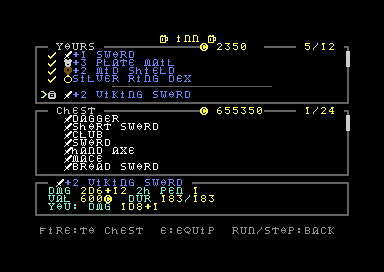
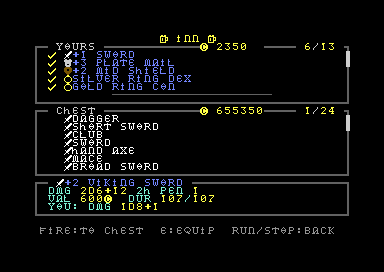
Due anelli indossati e anello comprato con la sua caratteristica
- Equipaggiamento a 5 posti (EQ_N): arma, armatura, scudo e due anelli
  (c_eq+3, c_eq+4). SAVE_VER $CA: blocco dell'eroe da 217 byte (file sempre di
  9 blocchi; i salvataggi di prima vengono scartati come le altre volte).
- Anello indossato (inventario e locanda): il primo posto libero; con due anelli
  sostituisce quello di valore minore (itval), che torna nello zaino con il
  messaggio "replaced ..." (inv_act). recalc_stats somma tutti e due.
- Alchimista: la caratteristica degli anelli in vendita si tira entrando, come nel
  bottino, e shop_buy la tiene (prima l'anello comprato aveva bonus 0 e non
  dava nulla).
- eq_get / eq_zero senza "and #3" (eq_y), liste con 5 indossati (inventario,
  locanda, baule del piano; alchimista con i due anelli), eroe di prova con due
  anelli (screenshot, ritaglio dell'HUD dell'help rifatto).
- Test: nuovi sanity RING-10..12 (secondo anello, sostituzione, anello comprato);
  i sanity di prima (BOSS1, REQ, NPCFIX) passano in regression. Wiki: oggetti,
  combattimento, formato dati, interfaccia, villaggio, elenco dei test.
Smoke + sanity e regression verdi (tranne PERF-24 e PERF-DISK-23, gia' noti e
decisi).

Changed region(s): [[0.0938, 0.2941, 0.6875, 0.3824], [0.7812, 0.1471, 0.8125, 0.1765], [0.5312, 0.7059, 0.5625, 0.7353]]

diff --git a/tests/sanity/rings/cases.py b/tests/sanity/rings/cases.py
@@ -1,0 +1,85 @@
+"""Two ring slots (21/11, TODO #391: equipment of 5 slots, c_eq[EQ_RING], c_eq[EQ_RING+1]) and the ring bought from the
+alchemist with its stat (before: bonus 0, no effect). One VICE session, the village; the inventory and the shop are the
+real screens (scrolling lists), keys written at the exit of read_input."""
+from lib.c64 import Game
+from c64test import test, check
+from lib.play import new_game, key, K_I, list_to, fire_to, find
+
+CHAIN = True
+R1 = 3                                          # EQ_RING: first ring slot (c_eq + 3), the second is c_eq + 4
+
+
+def setup(ctx):
+    g = ctx["g"] = Game()
+    g.to_menu()
+    new_game(g); g.frames(3)
+
+
+def teardown(ctx):
+    if "g" in ctx: ctx["g"].close()
+
+
+def ring(g, slot, item, stat):
+    g.poke(g.L["c_eq"] + slot, item); g.poke(g.L["c_eqb"] + slot, stat)
+
+
+def wear_from_pack(g, item, stat):
+    """the ring in pack slot 0, inventory, fire on it, close"""
+    L = g.L
+    g.fill(L["c_pack"], L["c_pack"] + 7, 0); g.poke(L["c_pack"], item); g.poke(L["c_packb"], stat)
+    key(g, K_I, 3)
+    check(not g.in_game(), "the inventory does not open")
+    check(list_to(g, 0, "ui_cur", 0), "cursor not on pack slot 0 (ui_cur %d)" % g.b(L["ui_cur"]))
+    g.press_fire(); g.frames(2)
+    scr = "".join(chr(b + 96) if 1 <= b <= 26 else chr(b) if 32 <= b < 64 else " " for b in g.mem(0xB400 + 23 * 40, 40))
+    g.run_stop(); g.frames(2)
+    return scr
+
+
+@test("RING-10", "inventory: with one ring on, a second ring goes to the free ring slot; both rings add their stat (recalc_stats)")
+def ring_second(ctx):
+    g = ctx["g"]; L = g.L
+    ring(g, R1, L["I_SILVER"], 1); ring(g, R1 + 1, 0, 0)
+    s0 = g.b(L["s_dex"])
+    wear_from_pack(g, L["I_COPPER"], 2)
+    eq = g.mem(L["c_eq"] + R1, 2)
+    check(eq == [L["I_SILVER"], L["I_COPPER"]], "ring slots %s (expected silver, copper)" % eq)
+    check(g.b(L["c_pack"]) == 0, "the copper ring is still in the pack")
+    check(g.b(L["s_dex"]) == s0 + 2 * g.b(L["itval"] + L["I_COPPER"]), "DEX %d (before %d): the second ring does not count" % (g.b(L["s_dex"]), s0))
+
+
+@test("RING-11", "inventory: with both rings on, a new ring replaces the one of lower value (it goes to the pack, message 'replaced')")
+def ring_replace(ctx):
+    g = ctx["g"]; L = g.L
+    ring(g, R1, L["I_SILVER"], 1); ring(g, R1 + 1, L["I_COPPER"], 2)
+    scr = wear_from_pack(g, L["I_GOLD"], 3)
+    eq = g.mem(L["c_eq"] + R1, 2)
+    low = R1 + 1 if g.b(L["itval"] + L["I_COPPER"]) <= g.b(L["itval"] + L["I_SILVER"]) else R1
+    want = [L["I_SILVER"], L["I_GOLD"]] if low == R1 + 1 else [L["I_GOLD"], L["I_COPPER"]]
+    check(eq == want, "ring slots %s (expected %s)" % (eq, want))
+    gone = L["I_COPPER"] if low == R1 + 1 else L["I_SILVER"]
+    check(gone in g.mem(L["c_pack"], 8), "the replaced ring is not in the pack %s" % g.mem(L["c_pack"], 8))
+    check("replaced" in scr, "no 'replaced' message (row 23: %r)" % scr.strip())
+
+
+@test("RING-12", "alchemist: a ring among the wares has its stat (1..3) and the bought ring keeps it")
+def ring_shop(ctx):
+    g = ctx["g"]; L = g.L
+    g.fill(L["c_pack"], L["c_pack"] + 7, 0); g.poke16(L["c_gold"], 9000)
+    door = find(g, L["T_DALCH"])
+    check(door, "no alchemist door on the map")
+    fire_to(g, door[0][0], door[0][1] + 1)
+    check(g.b(L["sh_mask"]) != 0, "the alchemist does not open")
+    g.poke(L["l8_id"], L["I_COPPER"]); g.poke(L["l8_b"], 2)          # ware 0: copper ring of DEX (as rolled entering)
+    ids, bs = g.mem(L["l8_id"], 8), g.mem(L["l8_b"], 8)
+    cat = g.mem(L["itcat"], L["N_ITEMS"])
+    bad = [(i, b) for i, b in zip(ids, bs) if i and cat[i] == L["CAT_RING"] and not 1 <= b <= 3]
+    check(not bad, "rings in the wares without a stat: %s" % bad)
+    check(list_to(g, 0, "ui_lc", 12), "cursor not on ware 0")
+    g.press_fire(); g.press_fire()                                     # buy, confirm
+    pk = g.mem(L["c_pack"], 8)
+    check(L["I_COPPER"] in pk, "the ring is not in the pack %s" % pk)
+    k = pk.index(L["I_COPPER"])
+    check(g.b(L["c_packb"] + k) == 2, "bought ring with stat %d (expected 2: DEX)" % g.b(L["c_packb"] + k))
+    g.run_stop(); g.frames(2)
+    check(g.in_game(), "RUN/STOP does not close the shop")

diff --git a/docs/wiki/test.md b/docs/wiki/test.md
@@ -150,19 +150,15 @@ Generato con `lab64 test all --md` (rifarlo quando si aggiunge un test).
 | `KRILL-01` | load_gfx 1 (Krill, LOAD_TO): the theme at GFX_DUN_AT (under the KERNAL, $EC6D since 15/11) equals out/work/gfx/gfx1.prg |
 | `KRILL-02` | snd_get (Krill): the song in its buffer equals out/work/snd/snd0.prg |
 
-### sanity (7)
+### sanity (3)
 
 | ID | Test |
 |---|---|
-| `QUEST-10` | village: the NPCs are placed (quest giver + at most one walker per sector, each inside its sector, on free tiles) |
-| `QUEST-11` | Q with no quest taken: the list (file QST0) says 'talk to the villagers', RUN/STOP goes back to the game |
-| `QUEST-12` | Hilde: '!' over her head, name in the bar; Fire = quest 1 taken and its detail (title, chapter, yellow status, text, reward); back: the list; the '!' is gone |
-| `QUEST-13` | the walkers move (slowly, the hero 4 tiles away), stay inside their sector, never stand on the hero's tile; with the hero next to them they stop |
-| `QUEST-14` | the visible NPCs get the free sprites 3..7 (never the hero's, never more than 5) |
-| `QUEST-15` | a walker with a quest ('quest giver' in the bar, '!'): Fire = quest taken, the walker gives it no more; long text scrolls with S; the list has 2 quests |
-| `QUEST-16` | attack cadence (s_rate): weapon + max(0, slow - per_dex x mod DEX): new hero (dagger, DEX 13) slower, DEX 18 = the weapon's |
+| `RING-10` | inventory: with one ring on, a second ring goes to the free ring slot; both rings add their stat (recalc_stats) |
+| `RING-11` | inventory: with both rings on, a new ring replaces the one of lower value (it goes to the pack, message 'replaced') |
+| `RING-12` | alchemist: a ring among the wares has its stat (1..3) and the bought ring keeps it |
 
-### regression (221)
+### regression (242)
 
 | ID | Test |
 |---|---|
@@ -182,10 +178,13 @@ Generato con `lab64 test all --md` (rifarlo quando si aggiunge un test).
 | `BOOT-13` | BARBARIAN menu: every choice (1 2 3) blanks the screen BEFORE loading; only its phrase (row 10, yellow) and 'please wait' (row 13), as the START wait screen (16/11) |
 | `BOOT-14` | BARBARIAN menu: item 4 'exit game' -> BASIC (READY.), keyboard and screen as at power-on (16/11) |
 | `BOOT-15` | START is silent (no SID player): the menu music stops when the game is chosen and restarts only in the lobby (16/11) |
-| `BOOT-17` | BARBARIAN menu: one loop per frame whatever the phase of the music IRQ (before 19/11 an IRQ over raster line 250 froze the menu, TODO I6) |
 | `BOOT-16` | HELP and LORE exits: wait page (phrase on row 10, 'please wait' on row 13, VIC bank 0, screen on) before the reload of BARBARIAN (16/11) |
 | `TITLEMUSIC-10` | HELP: Demon's Eye with its own IRQ clock (CIA1 timer A, 19656 cycles), IRQ/SID/CIA restored before the KERNAL LOAD |
 | `TITLEMUSIC-11` | BARBARIAN: Demon's Eye with its own IRQ clock (CIA1 timer A, 19656 cycles), IRQ/SID/CIA restored before the KERNAL LOAD |
+| `BOOT-17` | BARBARIAN menu: one loop per frame whatever the phase of the music IRQ (CIA1 timer locked to the frame; before 19/11 an IRQ over raster line 250 froze the menu for ever, TODO I6, LORE-10 hangs) |
+| `BOSS1-10` | level 5: over 30% of its life the Abbot does not rage; under 30% it rages (red border, attack recharge <= AB_RCD) |
+| `BOSS1-11` | raging Abbot: the censer warns (white blinking) and then the cloud takes hpmax/8 from the hero next to it (far away: not checked, the boss walks) |
+| `BOSSMAP-10` | boss levels 5, 10, 15: the map of data/maps/bosschapN.txt (after post_walls), the furniture of the chapter, stairs up to the boss walkable, no stairs down, its own palette (final.palette), the tiles of GFX(2c) from boss_gfx.py |
 | `BUILD-10` | variant: saved hero details (TESTUI=2) |
 | `BUILD-11` | variant: game menu (TESTUI=25) |
 | `BUILD-12` | variant: Fire on stairs (TESTFIRE) |
@@ -197,7 +196,6 @@ Generato con `lab64 test all --md` (rifarlo quando si aggiunge un test).
 | `CHAP-10` | chapters.yaml: local levels restart at 1, global depth = previous levels + local, the Abyss fills up to 255 |
 | `CHAP-11` | tools/simulators/chapters.py: every generated level of a chapter at its global depth with the chapter's bestiary, the chapter boss |
 | `CHAP-SEQ-10` | new hero in chapter 1 (c_chap = c_unl = 1); the village exit is closed: no label, the edge stops the hero |
-| `BOSSMAP-10` | boss levels 5, 10, 15: the map of data/maps/bosschapN.txt (after post_walls), the furniture of the chapter, stairs up to the boss walkable, no stairs down, its own palette (final.palette), the tiles of GFX(2c) from boss_gfx.py (19/11) |
 | `CHAP-SEQ-11` | level 5 = boss level of chapter 1: map BOSSCH1 (stairs up, no stairs down), boss drawn as the final boss |
 | `CHAP-SEQ-12` | killing the boss of chapter 1 unlocks chapter 2 (c_unl = 2) |
 | `CHAP-SEQ-13` | village exit open: label 'travel to next chapter'; fire: chapter 2, village TWN2 at the south entry, hero saved |
@@ -223,6 +221,7 @@ Generato con `lab64 test all --md` (rifarlo quando si aggiunge un test).
 | `CHEAT-20` | next level in the throne room (level 20): as the final boss killed (c_won, c_unl 5, respec gift), village 4 |
 | `CHEAT-21` | village 5 (last): next chapter and next level do nothing, message 'limit reached' |
 | `CHEAT-22` | GAME assembled with the release flags (tools/build/asm.sh release-game): no cheat code |
+| `DECOR-10` | levels 2, 7, 12, 17 (chapters 1-4), 3 seeds: solid and walkable furniture on every level; every walkable tile still reachable from the stairs; no monster on a solid tile; the same map when the level is entered again; chapter 4: the furniture is mirrored like the citadel (but where the mirrored tile is a stair or a chest) |
 | `DISK-10` | the disk has every file (loader, START, game, LORE, LDAT, TITLE, HELP, JUKEBOX, saves, ...) |
 | `DISK-12` | entry of the tests (11/11, Krill): the real START from the monitor (Krill installed), new game in the village |
 | `DUNG-CHEST-10` | key chest: without a key 'it is locked' (stays closed); with a key it opens, one key used |
@@ -233,14 +232,10 @@ Generato con `lab64 test all --md` (rifarlo quando si aggiunge un test).
 | `LOOT-12` | 10 scrolls on the hero: a scroll in a chest stays there (max 10); with 9 it is taken (stack of 10) |
 | `MAP-10` | minimap fog: nothing explored -> nothing far from the hero; all explored -> the level; half -> top half only |
 | `PORTAL-10` | portal on level 1, then a new portal on level 2: the old one on level 1 is gone, the village one leads to 2 |
+| `PORTAL-11` | portal out of level 2 and back: a wounded monster keeps HP and tile, a dropped chest is still there; stairs away and back: the monster is healed (STASH only for portal and death) |
 | `SKILL-10` | Frenzy (O): level 15 needed; 5 s; two attacks per Fire; run +100% = 4 px per frame; normal run after |
 | `SKILL-11` | Rage (U): level 9 needed; 6 s; damage taken halved (min 1), full damage without Rage |
 | `DEATH-10` | death on level 20 (throne room): village, half gold, deepest level 20 kept |
-| `DECOR-10` | levels 2, 7, 12, 17 (chapters 1-4), 3 seeds: solid and walkable furniture; every walkable tile reachable from the stairs; no monster on a solid tile; same map entering again; chapter 4 mirrored; screenshots in out/work/decor/ |
-| `OVP-10` | level 20: the code of the throne room is copied from the tail of GFX8 to $C900; a wave of the final boss from that code; level 19: the decor code of chapter 4 (jump table); village: MENU again at $C900 (19/11) |
-| `OVP-11` | level 5, The Hollow Abbot (code in the tail of GFX2): under 2/3 a stop and 2 Skeletons; regeneration while they live |
-| `OVP-12` | level 10, Mother Stitch (GFX4): rite when awake, 2 still fetishes (type 8, life = her max / 16), protected (hits /2, regeneration), open after the last one (hits x2), second rite under 2/3, no loot from a fetish (ovp_kill); screenshot out/work/ovp/stitch_fetishes.png |
-| `OVP-13` | level 15, Varok the Oathbreaker (GFX6): warning and charge along the row; the shield halves the hits, not when stunned |
 | `THRONE-10` | throne room: north wall closed, boss killed -> wall open, epic chest without key, lever -> portal |
 | `EMU-10` | vc64web: real boot from the disk (LOAD, POKE 1020,1, RUN): START with Krill, GAME and LOBBY loaded, menu shown |
 | `EMU-11` | vc64web: new barbarian from the menu (joystick + keyboard), saved to disk by the Krill plugin, village reached |
@@ -251,7 +246,7 @@ Generato con `lab64 test all --md` (rifarlo quando si aggiunge un test).
 | `EMU-16` | vc64web: reset and boot again from the same disk copy: the hero saved at creation is in the LOBBY list |
 | `GEN-10` | reference maps, throne room from FMAP and from the cache |
 | `GEN-11` | caves of chapter 3 (levels 11-14, 6 seeds): connected, border of wall, enough floor, generation under 1.2 s, palettes 9/11/10 |
-| `GEN-12` | swamp of chapter 2 (levels 6-9, 8 seeds): entry and exit gates on two sides of the border, the exit of a level facing the entry of the next one (random path, at least 3 sides used), all reachable, generation under 1.2 s, palette 12 |
+| `GEN-12` | swamp of chapter 2 (levels 6-9, 8 seeds + 2 anagram seeds with different gates): entry and exit gates on two sides of the border, the exit of a level facing the entry of the next one (random path, at least 3 sides used), gates of a level at least 34 tiles apart, all reachable, generation under 1.2 s, palette 12 |
 | `GEN-13` | citadel of chapter 4 (levels 16-19, 6 seeds): connected, symmetric left/right (but the stairs), columns, big halls, generation under 1.0 s; no monster born in a wall or in the water on levels 1-19 |
 | `INN-GOLD-10` | inn chest: deposit in tens (remainder kept, chest full, purse full) |
 | `GOLD-CAP-10` | gold picked up: GOLD_MAX cap on the hero (add_gold16) |
@@ -269,9 +264,10 @@ Generato con `lab64 test all --md` (rifarlo quando si aggiunge un test).
 | `ITEMDB-10` | items.tsv: valid table, consumable = potion/scroll, equipment = weapon/armor/shield/ring, weapons 1 or 2 hands |
 | `ITEMDB-11` | the checker refuses a wrong table: shield with hands, duplicate id, missing price, unknown type |
 | `ITEMDB-12` | game data = table: item ids in table order, category, price and the two-handed flag (itfl bit 0) |
-| `ITEMDB-NEXT-10` | next item database (data/items/next, proposal of 20/11): full names <= 37, unique names <= 16, affix values fit a byte, ids fit the record |
 | `INN-2H-10` | inn: shield with a two-handed weapon on: refused (the shield stays in the pack) |
 | `INN-2H-11` | inn: two-handed weapon with a shield on: equipped, the shield and the old weapon go to the pack |
+| `ITEMDB-NEXT-10` | next item database (data/items/next, proposal of 20/11): full names <= 37, unique names <= 16, affix values fit a byte, ids fit the record |
+| `REQ-10` | inventory: a weapon whose STR requirement is above s_str stays in the pack ('str N' in its box); with enough STR it is equipped |
 | `ITEM-10` | 255 generated items, broken weapon, HUD warnings, TOD clock (repair: SHOP-FIX-10) |
 | `BELT-10` | belt (4 potions, the fifth refused), scroll stack, portal |
 | `KRILL-10` | START installs Krill: resident code at $0200 as out/work/krill/loader.prg (but its variables), LDFLAGS used |
@@ -305,12 +301,18 @@ Generato con `lab64 test all --md` (rifarlo quando si aggiunge un test).
 | `MON-CHAP-20` | back to chapter 1 after chapter 4: the chapter 1 set (fallen ... balrog, lord of ruin) is restored |
 | `MUSIC-10` | songs per level, buffer = SNDn files, combat and resume, copy under I/O |
 | `MUSIC-11` | .sid files: one per song, PSID header, init + 50 frames of play write gate and frequency of the SID voices |
+| `NPCFIX-10` | village 1: the fixed NPCs are on their tiles (header tk_fix), with their design, still, no quest; nobody else in their sectors |
+| `NPCFIX-11` | next to each fixed NPC the bar shows its name; Fire next to one without a quest opens nothing |
 | `OPT-11` | bar_far (sabs): monster off screen at |dx| >= 176 or |dy| >= 112, both signs |
 | `OPT-12` | neg16 / sabs: -tmp0:1 and |tmp0:1| saturated at 255 |
 | `OPT-02` | gold_total: c_gold + 10 x c_sgold (24 bit) at the limits |
 | `OPT-05` | pot_heal: itval + itdn x level for the three potions at levels 1 and 20, Abyss values (pab_*) at level 99 |
 | `OPT-03` | set_name4 / set_name: every name of nm_tab in cmdbuf+3.., nlen = length, io_dir = 1, A = 1, X kept |
 | `OPT-12B` | put_hero: the hero on tile (A, X) -> px/py = tile x 16 + 8 (centre) |
+| `OVP-10` | level 20: the code of the throne room is copied from the tail of GFX8 to $C900 (ovp_ok = 1); the boss below 3/4 of its life calls a wave of SUM_WAVE monsters; level 19: the decor code of chapter 4 (with the citadel); village: the MENU module is read again at $C900 |
+| `OVP-11` | level 5, The Hollow Abbot (code in the tail of GFX2): under 2/3 of its life it stops 1 s (green) and raises 2 Skeletons next to itself; while one of them lives it regenerates (1 hp every 25 frames) |
+| `OVP-12` | level 10, Mother Stitch (GFX4): awake, a rite (1 s still) plants 2 fetishes (type 8, still, life = her max / 16); while one stands the hero's hits are halved and she regenerates; the last one down leaves her open (hits x2); under 2/3 a second rite; a fetish killed gives no loot |
+| `OVP-13` | level 15, Varok the Oathbreaker (GFX6): aligned with the hero he stops (warning) and charges along the row; his shield halves the hero's hits, not when stunned |
 | `PERF-10` | village: walking in 8 directions, lost frames <= 2%, worst frame <= 2 |
 | `PERF-11` | inventory open within 0.3 s, minimap within 0.5 s; back in the game within 0.3 s |
 | `PERF-19` | village screens with the module MENU in memory (loaded at the village entry, 11/11): smith, inn, inn again <= 0.5 s, back <= 0.5 s |
@@ -325,7 +327,7 @@ Generato con `lab64 test all --md` (rifarlo quando si aggiunge un test).
 | `PERF-21` | every dungeon level 1..19 (change_level): walking, lost <= 20%, worst <= 3 |
 | `PERF-22` | Abyss levels 21..255: walking (when the Abyss exists) |
 | `PERF-23` | level generator on EVERY level 1..19 and on every Abyss level 21..255: <= 1.5 s each, up stairs present |
-| `PERF-24` | every village 1..5: walking from next to each wandering NPC, lost <= 1.5%, worst <= 2.1 (19/11: before 3-4%) |
+| `PERF-24` | every village 1..5: walking from next to each wandering NPC (they walk too), lost <= 1.5%, worst <= 2.1 (19/11: before 3-4% near the NPCs) |
 | `PERF-DISK-10` | START from the monitor to the barbarian menu (Krill install, GAME, LOBBY, hl) <= its limit |
 | `PERF-DISK-11` | loads with Krill (MENU, village, theme, song, hero list, hero file) <= their limits |
 | `PERF-DISK-13` | stairs inside a chapter (change_level 1 -> 2: theme, generation, level state from RAM) <= its limit |
@@ -348,6 +350,13 @@ Generato con `lab64 test all --md` (rifarlo quando si aggiunge un test).
 | `BELT-13` | save from the game menu, belt wiped in RAM, hero loaded from disk: same belt |
 | `BELT-14` | death keeps the belt (no potion lost) |
 | `POT-10` | pot_heal: dungeon column up to level 20, Abyss column (heal_abyss) from level 21, all potions, Y kept |
+| `QUEST-10` | village: the NPCs are placed (quest giver + at most one walker per sector, each inside its sector, on free tiles) |
+| `QUEST-11` | Q with no quest taken: the list (file QST0) says 'talk to the villagers', RUN/STOP goes back to the game |
+| `QUEST-12` | Hilde: '!' over her head, name in the bar; Fire = quest 1 taken and its detail (title, chapter, yellow status, text, reward); back: the list; the '!' is gone |
+| `QUEST-13` | the walkers move (slowly, the hero 4 tiles away), stay inside their sector, never stand on the hero's tile; with the hero next to them they stop |
+| `QUEST-14` | the visible NPCs get the free sprites 3..7 (never the hero's, never more than 5) |
+| `QUEST-15` | a walker with a quest ('quest giver' in the bar, '!'): Fire = quest taken, the walker gives it no more; long text scrolls with S; the list has 2 quests |
+| `QUEST-16` | attack cadence (s_rate): weapon + max(0, slow - per_dex x mod DEX): new hero (dagger, DEX 13) slower, DEX 18 = the weapon's |
 | `SAVE-10` | new disk: menu without error, no heroes |
 | `SAVE-11` | hl (hero list) missing: menu without error, the game starts |
 | `SAVE-12` | hero list zeroed / random / never written: no error, no heroes |
@@ -383,7 +392,7 @@ Generato con `lab64 test all --md` (rifarlo quando si aggiunge un test).
 | `INN-GOLD-11` | inn: entering with less than a ten of gold nothing moves; with the chest near full only what fits (21/11) |
 | `MENU-10` | out/work/menu.prg (one file since 18/11): header (parts, source and destination), parts ZX0(zone k), ends at MR2_END, above ML_LO; shops out of GAME; the disks have MENU, no MENU1/OVLT/OVL2 |
 | `MENU-11` | ovl_town from the disk (as at the village entry): every zone equal to the module, ovl_cur = 1, $01 = $35 (KERNAL always out since 21/11), < 11 s |
-| `MENU-13` | smith, alchemist and inn open from the module in RAM: no read of the file MENU, KERNAL and IRQ back after RUN/STOP |
+| `MENU-13` | smith, alchemist and inn open from the module in RAM: no read of the file MENU, $01 = $35 and IRQ back after RUN/STOP |
 | `VIL-TWN-11` | village 1 (Aldric's Hollow): header in town_k, solid tiles, colours, map, hero at the entry |
 | `VIL-TWN-12` | village 2 (Bad Water): header in town_k, solid tiles, colours, map, hero at the entry |
 | `VIL-TWN-13` | village 3 (The Last Camp): header in town_k, solid tiles, colours, map, hero at the entry |
@@ -393,8 +402,8 @@ Generato con `lab64 test all --md` (rifarlo quando si aggiunge un test).
 | `VIL-TWN-21` | village 5 (City of the Abyss, prototype): the Maw does not lead anywhere yet |
 | `VIL-BOSS-10` | boss levels of chapters 1-3: the boss is drawn with its own sprite colour (set of the chapter), in the slot of the final boss |
 | `VIL-TWN-22` | villages 2-5: fire one tile below the doors opens smith, alchemist and inn; RUN/STOP closes them |
-| `VIL-FERRY-10` | village 2 (Bad Water): stepping on one ferry brings the hero onto the other one and he stays there; off and on again: back; the ferry tile is walkable for the hero, never for the NPCs; village 1 has no ferry |
 | `VIL-TWN-23` | village 4 with chapter 5 unlocked (final boss killed): the exit in the crater leads to the City of the Abyss, hero saved at its entry |
+| `VIL-FERRY-10` | village 2 (Bad Water): stepping on one ferry (tile F) brings the hero onto the other one and he stays there; stepping off and on again brings him back; the ferry tile is walkable for the hero, never for the NPCs; village 1 has no ferry |
 
 ## Bug trovati dalla ristrutturazione
 

diff --git a/docs/wiki/interfaccia.md b/docs/wiki/interfaccia.md
@@ -129,7 +129,7 @@ Tutte spengono lo split raster (`ui_begin`), usano il font della UI (`$B800`) e 
 
 | Schermata | Routine | Contenuto |
 |---|---|---|
-| Inventario | `ui_inventory` → `iv_main` (segmento CORE, `src/game/inv.asm`) | 21/11 (branch `liste-menu`, prototipi approvati dal committente): titolo "backpack" (riga 0). **Statistiche** (righe 1-5, titolo = nome del PG): lvl/xp/oro/chiavi, hp/att/ac/dmg, str/dex/con. **Lista "items"** a scorrimento (righe 7-16, `slist.asm`): una voce per riga, prima l'equipaggiamento (arma, armatura, scudo, anello; segno ✓ giallo `CH_EQ`), poi la cintura (4 posti, segno `CH_BELT`), poi lo zaino (8 posti, segno `CH_PACK`), separati da una riga sottile (`CH_SEP`); posto libero = "-"; barra di scorrimento sul bordo destro (`CH_THUMB`) e posizione " n/N " nel titolo. **Oggetto selezionato** (righe 18-22): icona e nome nel titolo, poi proprietà (`it_prim`, `it_sec`: requisito di FOR "str N" se non raggiunto), valore e durabilità, provenienza ("equipped", "in belt") o, per lo zaino, il confronto "you: ..." con l'oggetto indossato della stessa categoria. Fire usa o indossa (la cintura si guarda soltanto: posizione delle pozioni in futuro), DEL getta, I o RUN/STOP chiudono |
+| Inventario | `ui_inventory` → `iv_main` (segmento CORE, `src/game/inv.asm`) | 21/11 (branch `liste-menu`, prototipi approvati dal committente): titolo "backpack" (riga 0). **Statistiche** (righe 1-5, titolo = nome del PG): lvl/xp/oro/chiavi, hp/att/ac/dmg, str/dex/con. **Lista "items"** a scorrimento (righe 7-16, `slist.asm`): una voce per riga, prima l'equipaggiamento (arma, armatura, scudo, due anelli; segno ✓ giallo `CH_EQ`), poi la cintura (4 posti, segno `CH_BELT`), poi lo zaino (8 posti, segno `CH_PACK`), separati da una riga sottile (`CH_SEP`); posto libero = "-"; barra di scorrimento sul bordo destro (`CH_THUMB`) e posizione " n/N " nel titolo. **Oggetto selezionato** (righe 18-22): icona e nome nel titolo, poi proprietà (`it_prim`, `it_sec`: requisito di FOR "str N" se non raggiunto), valore e durabilità, provenienza ("equipped", "in belt") o, per lo zaino, il confronto "you: ..." con l'oggetto indossato della stessa categoria. Fire usa o indossa (la cintura si guarda soltanto: posizione delle pozioni in futuro), DEL getta, I o RUN/STOP chiudono |
 | Oggetto selezionato | `iv_sel` (segmento CORE) | 21/11: in tutte le schermate di oggetti (inventario, negozi, locanda, baule del piano), righe 18-22: icona e nome nel titolo, caratteristiche principale e secondaria (`dmg 2d6+3`, `2h pen 1`, requisito "str N" se manca la FOR), valore e durabilità (negozi: solo la durabilità), riga 3 della schermata (`iv_l3`) |
 | Baule del piano | `ui_chest` | 21/11 (liste a scorrimento): titolo "o golden chest o" (moneta ai lati; chest / key chest / golden chest / epic chest); lista **contents** (righe 2-7, gli oggetti del baule; nel titolo l'oro trovato aprendolo), lista **yours** (righe 10-16, come l'inventario: indossati, cintura, zaino), riquadro dell'oggetto con il confronto "you: ...". Fire nella lista contents prende l'oggetto; nell'altra lista si guarda soltanto. Riga 23 i messaggi ("the belt is full.": la pozione resta nel baule; "pack is full.", "max 10 scrolls."); un baule vuoto sparisce. Chiuso: "it is locked. you need a key." |
 | Negozio | `enter_shop`, `sh_draw` (modulo MENU) | 21/11 (liste a scorrimento): liste **wares** (prezzo pieno a destra) e **gear** (fabbro) / **yours** (alchimista) con il prezzo di vendita e l'oro totale nel titolo, riquadro dell'oggetto con `buy` / `sell` / `repair`; fire = buy (merce), sell (zaino, cintura); R = repair (fabbro); l'indossato non si vende; pozione comprata: scelta del posto della cintura. Dettagli: [Villaggio](villaggio.md#negozi-enter_shop-sh_draw-modulo-menu-dall1111) |

diff --git a/docs/wiki/FORMATO_DATI.md b/docs/wiki/FORMATO_DATI.md
@@ -59,8 +59,8 @@ riscrive: [salvataggi.md](salvataggi.md)).
 
 | Offset | Byte | Contenuto |
 |---|---|---|
-| 0 | 210 (`HERO_LEN`) | blocco dell'eroe (`CHRBLK`, vedi sotto), con il baule della locanda |
-| 210 + (piano − 1) × 93 | 93 (`LV_SLOT`) | stato compatto del piano 1…20 (82 o 93 byte usati) |
+| 0 | 217 (`HERO_LEN`, dal formato $CA) | blocco dell'eroe (`CHRBLK`, vedi sotto), con il baule della locanda |
+| 217 + (piano − 1) × 93 | 93 (`LV_SLOT`) | stato compatto del piano 1…20 (82 o 93 byte usati) |
 
 **`HL`** (66 byte): versione (`save_version`), 5 byte "eroe presente", 5 nomi da 12 caratteri (scritto solo creando
 un eroe o cancellandolo; `START` e il menu leggono solo questo file).
@@ -72,7 +72,7 @@ formato e tempi in `docs/wiki/storico-todo.md` e nella storia di git.
 
 In memoria: blocco `CHRBLK` a `$9500` (`src/game/game.asm`); i primi `HERO_LEN` byte del file sono la copia esatta del blocco.
 Dal formato $BF: esperienza `c_xp` a 24 bit, vita `c_hp` a 16 bit, `c_vis` 3 byte (24 piani); il 4o posto
-dell'equipaggiamento (`c_eq+3`, `c_eqb+3`) è l'anello (bonus = caratteristica: 1 FOR, 2 DES, 3 COS).
+dell'equipaggiamento (`c_eq+3`, `c_eqb+3`; dal formato $CA anche il 5o) è l'anello (bonus = caratteristica: 1 FOR, 2 DES, 3 COS).
 Dal formato $C0: il baule della locanda non è più nel blocco (record a parte); ogni oggetto dello zaino e
 dell'equipaggiamento ha durabilità attuale e massima (`c_packd`/`c_eqd`, `c_packm`/`c_eqm`, contigui come
 `c_pack`/`c_eq`); `c_game` (3 byte: bit 0..8 numero della partita, bit 9..23 minuti giocati); `c_deaths`
@@ -103,7 +103,11 @@ La tabella campo per campo (offset, byte, significato) è generata a ogni build 
 su `CHRBLK`, commenti dei campi) nella mappa automatica: [`program-game.html`](../../out/work/memory-map/program-game.html#layout-CHRBLK),
 "Fields of CHRBLK"; lo stesso per `LVLBLK` (stato del piano in RAM). È sempre allineata al codice.
 
-## 3. Stato di un piano — `SAVE-0N`, offset 210 + (piano − 1) × 93 (formato compatto)
+Dal formato **$CA** (21/11, TODO #391): l'equipaggiamento ha **5 posti** (`EQ_N`): arma, armatura, scudo e **due anelli**
+(`c_eq+3` e `c_eq+4`, `EQ_RING`); `c_eq`, `c_eqb`, `c_eqd`, `c_eqm` crescono di un byte ciascuno: blocco da **217** byte
+(`HERO_LEN`; il file dell'eroe resta di 9 blocchi). I piani seguono dall'offset 217.
+
+## 3. Stato di un piano — `SAVE-0N`, offset `HERO_LEN` + (piano − 1) × 93 (formato compatto)
 
 In memoria: blocco `LVLBLK` a `$9800`. La **mappa non è salvata**, e nemmeno mostri e bauli
 del piano: entrando nel piano si rigenera tutto dal seed (`seed_level`), poi si applicano le differenze
@@ -300,7 +304,7 @@ Krill invece permette sprite, IRQ e badline durante i caricamenti.
 - **Personaggio** (`SAVE-0N`): solo con "save game" del menu RUN/STOP, una volta alla creazione dell'eroe e al
   **cambio di capitolo** (gruppi di 5 piani, 11/11 sera). "Quit game" **non** salva. Mai alla morte o alla vittoria,
   né uscendo dalla locanda o dalla scheda del personaggio.
-- **Stato del piano** (`SAVE-0N`, offset 210 + (piano − 1) × 93):
+- **Stato del piano** (`SAVE-0N`, offset `HERO_LEN` (217) + (piano − 1) × 93):
   - lasciandolo per le **scale**: copiato nel suo **slot in RAM** (`LVRAM`, 5 slot del capitolo, RAM sotto l'I/O);
     sul disco va con "save game" o al cambio di capitolo, insieme all'eroe;
   - lasciandolo per **portale o morte**: nel suo slot come per le scale, e in più boss, 5 mostri caldi e 10 bauli

diff --git a/docs/wiki/oggetti.md b/docs/wiki/oggetti.md
@@ -123,7 +123,7 @@ minuscole, cifre, spazio, `'`, `-`, `.` (`asm_str`). Il nome del PG è a parte: 
 
 ### I byte accanto all'id (`c_eqb`/`c_packb`, `c_eqd`/`c_packd`, `c_eqm`/`c_packm`)
 Ogni oggetto posseduto ha tre byte accanto all'id (le tabelle dello zaino proseguono in quelle
-dell'equipaggiamento: indice 16..19):
+dell'equipaggiamento: indice `PACK_N`..`PACK_N`+4 = 8..12):
 - **bonus**: armi, armature, scudi = **magia +N** (0..3), sommata ad ATT e danno (armi) o alla CA; anelli = la
   **caratteristica** (1 FOR, 2 DES, 3 COS, il nome mostra il suffisso `copper ring str`); pergamene = la
   **quantità** della pila (1..4, `SCR_MAX`); pozioni: non usato;
@@ -172,13 +172,18 @@ flowchart LR
     GI -->|pozione| BE["cintura c_beltt: 4 posti,<br/>una pozione per posto"]
     GI -->|pergamena| SC["pila nello zaino (max 10)"]
     GI -->|altro| PK["zaino c_pack: 8 posti"]
-    PK <-->|Fire nell'inventario| EQ["equipaggiamento c_eq:<br/>arma, armatura, scudo, anello"]
+    PK <-->|Fire nell'inventario| EQ["equipaggiamento c_eq:<br/>arma, armatura, scudo, due anelli"]
     PK <-->|"baule della locanda (nella locanda)"| ST["baule della locanda: 24 posti<br/>(nel record dell'eroe) + oro (c_sgold)"]
     PK -->|negozio: vendita a un quarto del prezzo| G["oro"]
     EQ -->|"usura a 0"| X["rotto: resta, in rosso,<br/>senza effetto (danno 0, CA 0)"]
 ```
 
-- **Equipaggiamento** (4 posti, indice = categoria − 1): l'arma non si toglie né si vende (si sostituisce:
+- **Anelli** (21/11, TODO #391, formato $CA): **due posti** (`c_eq+3`, `c_eq+4`, `EQ_RING`): un anello indossato va nel
+  primo posto libero; con due anelli sostituisce quello di **valore minore** (`itval`; a pari valore il secondo), che torna
+  nello zaino, con il messaggio "replaced ..." in riga 23. Contano tutti e due (`recalc_stats`). L'anello comprato
+  dall'alchimista ha la sua caratteristica, tirata entrando nel negozio come nel bottino (1..3): fino al 21/11 aveva bonus 0 e
+  non dava nulla.
+- **Equipaggiamento** (5 posti dal 21/11, indice = categoria − 1, gli anelli 3 e 4): l'arma non si toglie né si vende (si sostituisce:
   il PG ha sempre un'arma; rotta resta in mano, con danno 0 e il nome in rosso, finché non si ripara o si scambia); uno scudo con la
   vichinga equipaggiata è rifiutato; equipaggiando la vichinga lo scudo torna nello zaino (se c'è posto). Ogni
   cambio chiama `recalc_stats`. Nella locanda (08/11) l'equipaggiamento si cambia dal riquadro equipped, prendendo

diff --git a/docs/wiki/combattimento.md b/docs/wiki/combattimento.md
@@ -44,7 +44,7 @@ per livello. Tetto del livello prima dell'Abisso: 20 (`PL_MAXLVL`).
 | cadenza | (18/11, committente: "con Fire tenuto la velocità dipende dalle stat, all'inizio più lenta") `itrate` dell'arma + max(0, `ATK_SLOW` − `ATK_DEX` × mod DES) fotogrammi fra due Slash (`s_rate`, `recalc_stats`; `data/rules.yaml` `player.attack_speed`: 12 e 3). DES 13 (mod +1): +9 (pugnale 12 → 21, 0,24 → 0,42 s); DES 16-17 (+3): +3; DES 18 (+4) o più: la cadenza dell'arma. Vale per ogni Slash, tenuto o premuto ogni volta |
 | penetrazione | `itpen` dell'arma: si sottrae alla CA del mostro |
 
-L'anello aggiunge +N (rame 1, argento 2, oro 3) al **modificatore** della caratteristica scritta nel suo byte
+(21/11) Si indossano **due anelli** e contano tutti e due. Ogni anello aggiunge +N (rame 1, argento 2, oro 3) al **modificatore** della caratteristica scritta nel suo byte
 bonus (1 FOR, 2 DES, 3 COS), cioè +2N al valore; quello di COS aggiunge anche N × (livello + 1) alla vita.
 Il PG ha **sempre un'arma** equipaggiata (si scambia, non si toglie; 07/11: i pugni non esistono più). Un'arma
 **rotta** (durabilità 0) resta in mano ma `recalc_stats` le dà 0 dadi e 0 danno fisso (vedi Durabilità).

diff --git a/docs/wiki/villaggio.md b/docs/wiki/villaggio.md
@@ -309,7 +309,7 @@ all'acquisto. Pool e quantità: `balance.yaml shops`.
 ## Baule della locanda (`ov_stash`, modulo MENU)
 
 Dal 21/11 (branch `liste-menu`, prototipi approvati dal committente) due liste a scorrimento e il riquadro dell'oggetto:
-- **yours** (righe 2-7): i 4 posti indossati (spunta), riga sottile, lo zaino (8 posti; niente cintura: le pozioni non vanno
+- **yours** (righe 2-7): i 5 posti indossati (spunta; due anelli dal 21/11), riga sottile, lo zaino (8 posti; niente cintura: le pozioni non vanno
   nel baule); nel titolo l'oro addosso;
 - **chest** (righe 10-16): i 24 posti del baule; nel titolo l'oro del baule;
 - **riquadro dell'oggetto**: caratteristiche, valore e durabilità, poi "equipped" o il confronto "you: ..." con l'indossato.
